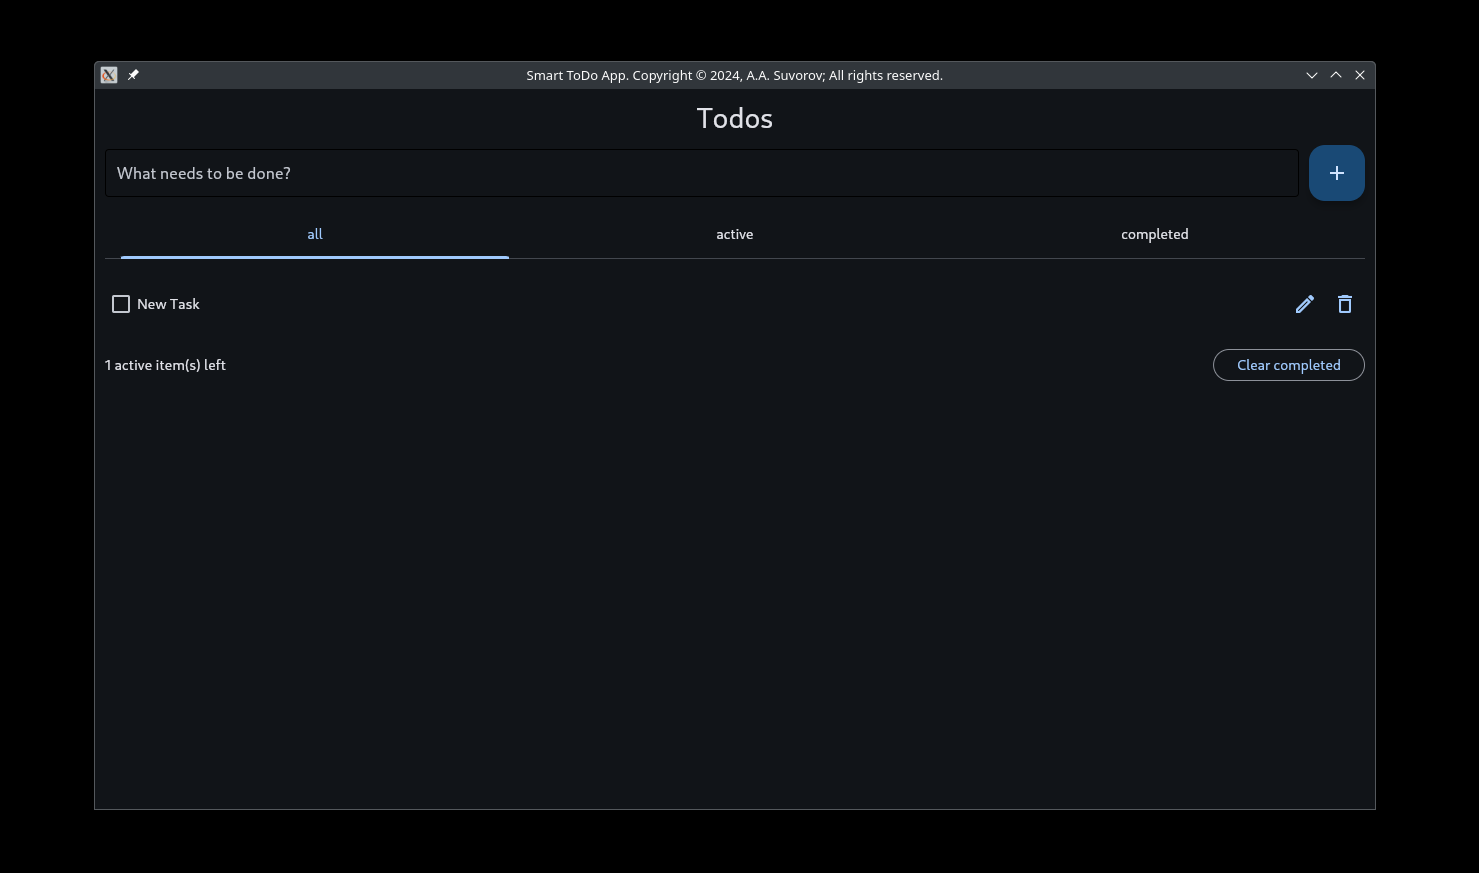
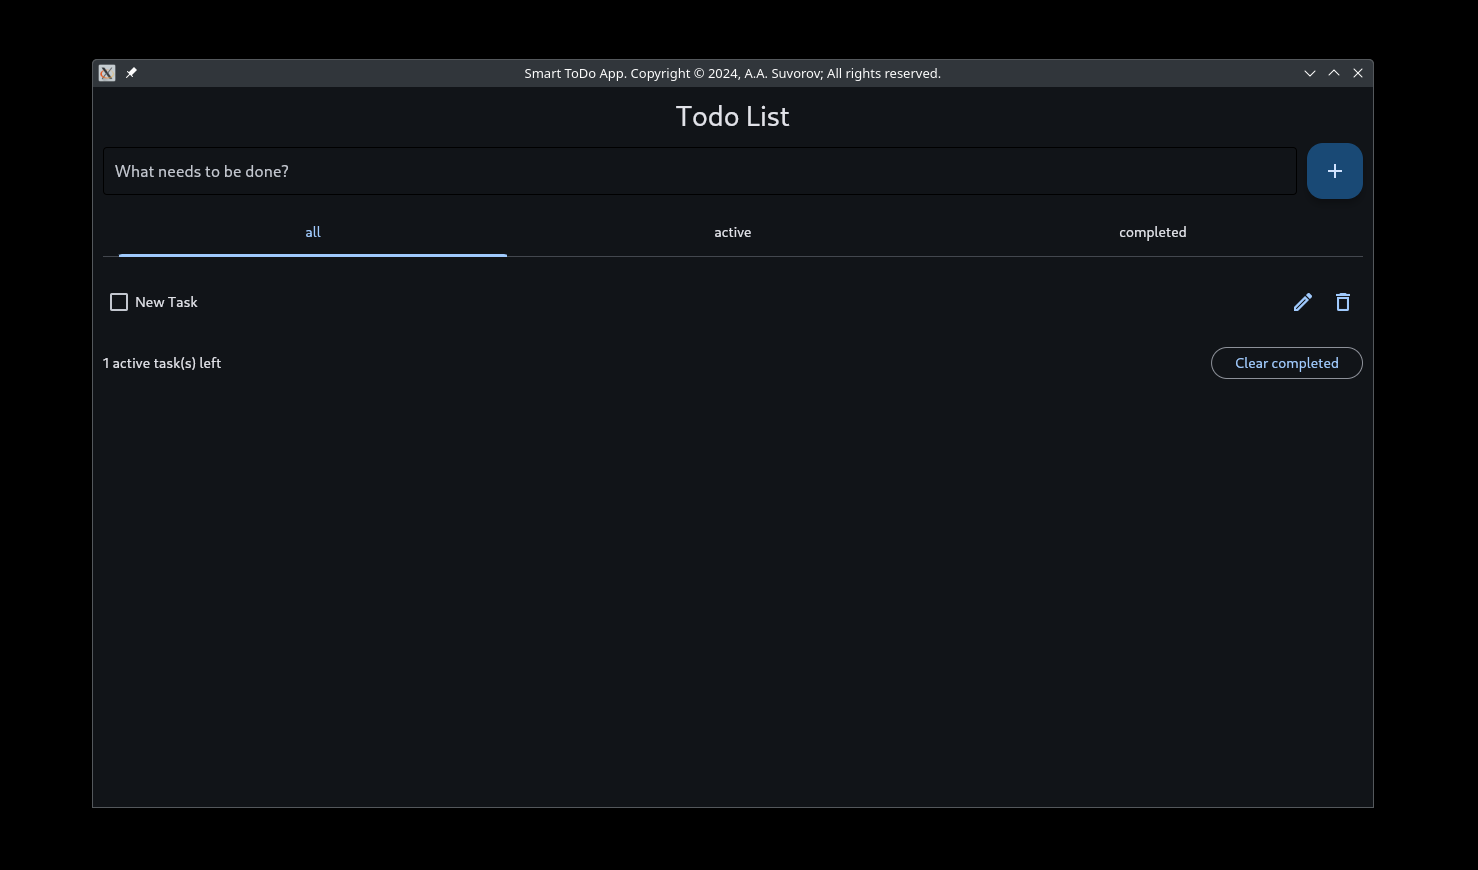
Fix errors.

diff --git a/core/__init__.py b/core/__init__.py
@@ -1,0 +1,8 @@
+# --------------------------------------------------------
+# Licensed under the terms of the BSD 3-Clause License
+# (see LICENSE for details).
+# Copyright © 2024, A.A. Suvorov
+# All rights reserved.
+# --------------------------------------------------------
+# https://github.com/smartlegionlab/
+# --------------------------------------------------------

diff --git a/core/controllers.py b/core/controllers.py
@@ -115,4 +115,4 @@ class TodoApp(ft.Column):
             )
             if not task_view.task.completed:
                 count += 1
-        self.items_left.value = f"{count} active item(s) left"
+        self.items_left.value = f"{count} active task(s) left"
